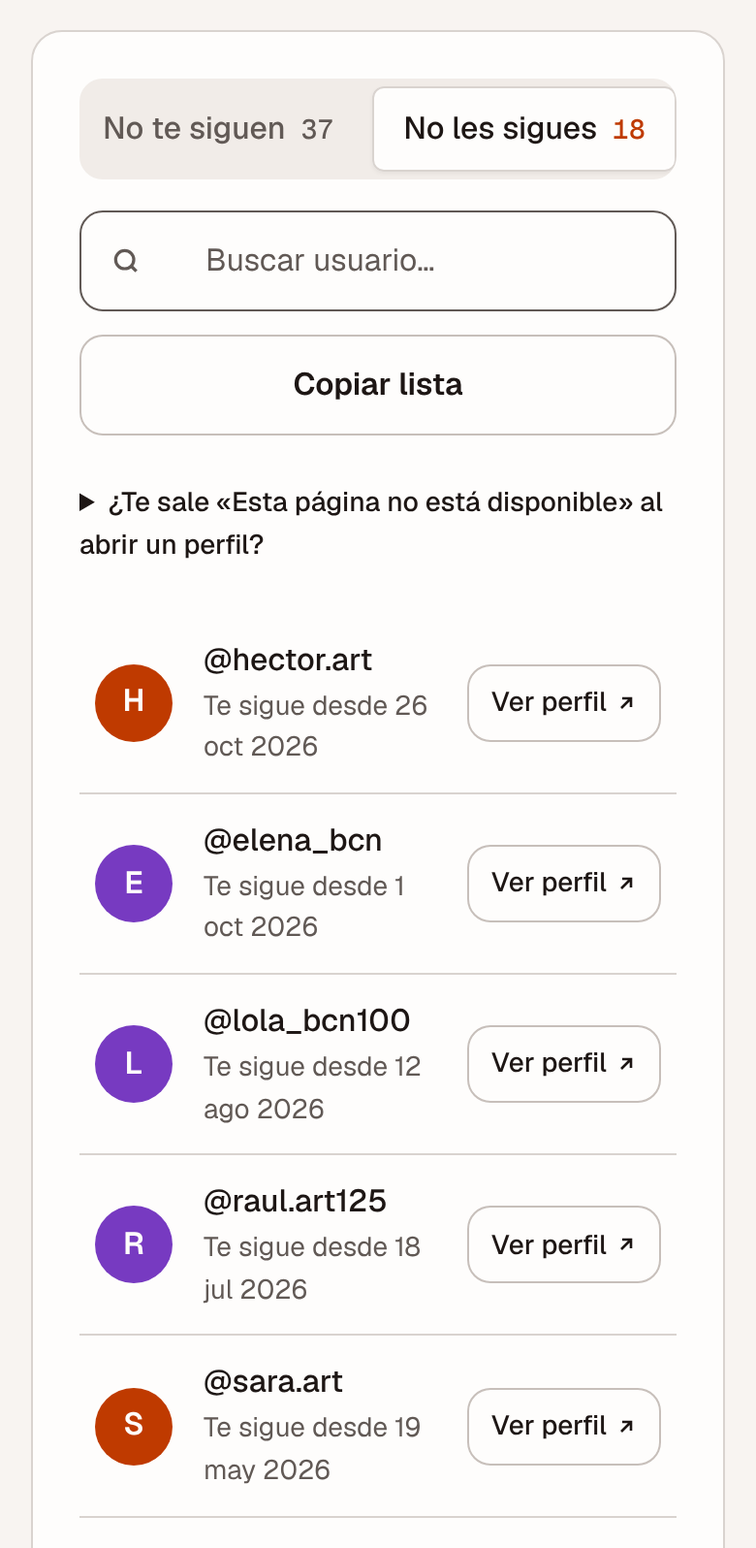
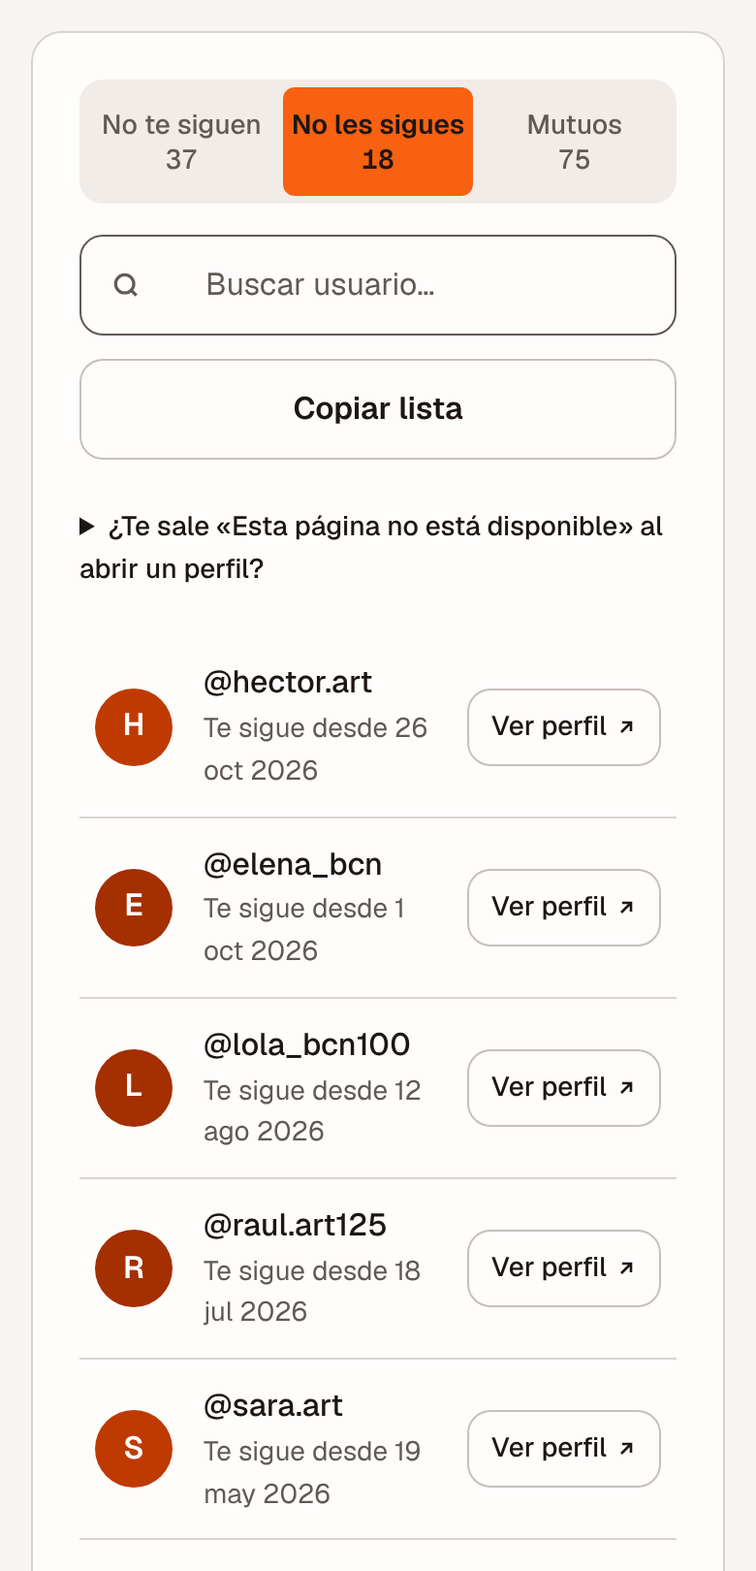
feat(ui): todo en naranja y más vida sin nuevos colores
- El morado pasa a naranja profundo y melocotón intenso
- Fantasma blanco flotando en la franja naranja del cierre
- Subrayado tipo rotulador en «de vuelta?» y pestañas más vivas
- Capturas de la app rehechas con la nueva paleta

diff --git a/src/styles/main.css b/src/styles/main.css
@@ -2,16 +2,17 @@
  * hero: Banner · nav: edge-aligned, the wordmark and one link · footer: colophon block · imagery: screenshots 8 (capture.mjs, desktop and phone), the product with sample data · signature: the results screen at full width under the hero, then the data map
  * axes: light/grotesk-sans/warm · posture: restrained · contrast: pass · fold: pass · v2.0.0 */
 /* Hallmark · pre-emit critique: P4 H4 E4 S4 R5 V4 · weakest: S, a centred head could front any tool; the real results screen sits right under it at full width, and the map keeps the privacy argument */
-/* Hallmark · swapped Stat-Led for a showcase, and the search-led bar for an edge-aligned one · the page has no figures to lead with and nothing to search; dropped the theme's stationery and felt textures and its no-fill rule for coral · the user asked for a minimal page in the ghost's orange, with purple as the second colour */
+/* Hallmark · swapped Stat-Led for a showcase, and the search-led bar for an edge-aligned one · the page has no figures to lead with and nothing to search; dropped the theme's stationery and felt textures and its no-fill rule for coral · the user asked for a minimal page in the ghost's orange, with purple as the second colour; later the owner folded the purple back into deeper and lighter oranges */
 /* Hallmark · waive 59 · the showcase sits 40px under the hero, the only gap under 120px · the results screen is the hero's picture and must start on the first screen */
 /* Hallmark · waive 39b · div.drop is a file drop target with role=button, sized to the instructions well beside it · a dropped .zip needs a large target, the real buttons stand 44 to 52px */
-/* Hallmark · redesign: restyle on #analizar (scope app) · the layout stays; the user asked for more life: a peach band, the platforms' own marks (Simple Icons, CC0, monochrome), the chosen network in solid orange, purple for the upload and the steps, tinted figure cards */
+/* Hallmark · redesign: restyle on #analizar (scope app) · the layout stays; the user asked for more life: a peach band, the platforms' own marks (Simple Icons, CC0, monochrome), the chosen network in solid orange, a deep orange for the upload and the steps, tinted figure cards */
 /* Hallmark · dismissed 77 · #analizar is the app screen of the same page, one working section by design; swept with --scope app */
 /* Hallmark · answered F4 · one primary recipe (.btn, orange); .btn--quiet is the outlined secondary on a near-white surface, and the stars are toggles, not actions */
 /* Hallmark · dismissed 49 · the two moment tabs are a title over a line by design; the score buttons wrap inside their own cell */
 /* Hallmark · reworded "resumen.png" to "resultados.png" and "movil.png" · the new shape shows the results screen under the hero and the phone view at the close */
 /* Hallmark · waive 38iii · the accent colours the whole second line of the h1, once, in the hero · the owner asked for more colour and the line stays the same size and weight */
-/* Hallmark · finish-review (#analizar restyle): subagent · 5 findings · 5 resolved (tabs fit the phone, beta badge in the corner, drop zone content at the top, purple upload badge, ring beside the figure on phones) */
+/* Hallmark · finish-review (#analizar restyle): subagent · 5 findings · 5 resolved (tabs fit the phone, beta badge in the corner, drop zone content at the top, deep orange upload badge, ring beside the figure on phones) */
+/* Hallmark · orange-only restyle (owner: fold the purple into orange, more life, no new colours) · finish-review: subagent · 5 findings · 5 fixed (ghost on phones, firmer highlighter, selected tab back to peach, ghost over the frame corner, privacy tag tinted) */
 @import url("./tokens.css");
 @import url("./base.css");
 
@@ -25,8 +26,9 @@
   --figure-size: clamp(2.25rem, 2vw + 1.25rem, 3.25rem);
   --shadow-screen: 0 24px 48px -28px oklch(20% 0.02 40 / 0.28);
   --shadow-orange: 0 12px 24px -16px oklch(45% 0.18 40 / 0.7);
-  --shadow-purple: 0 12px 24px -14px oklch(40% 0.2 300 / 0.6);
+  --shadow-deep: 0 12px 24px -14px oklch(38% 0.14 38 / 0.6);
   --shadow-deep-c: oklch(20% 0.05 40 / 0.55);
+  --ghost-shade: oklch(38% 0.14 38 / 0.35);
 }
 
 .hidden { display: none !important; }
@@ -76,8 +78,8 @@ a:hover { text-decoration-color: var(--color-accent-2); }
 .skip:focus-visible { top: var(--space-md); }
 
 /* ---------------------------------------------------------------- the ghost (the user's logo) */
-.ghost-body { fill: var(--color-accent); }
-.ghost-eye { fill: var(--color-ink); }
+.ghost-body { fill: var(--ghost-fill, var(--color-accent)); }
+.ghost-eye { fill: var(--ghost-eye, var(--color-ink)); }
 .ghost-glint { fill: var(--color-surface); }
 .logo { width: 32px; height: 32px; flex: none; }
 
@@ -103,8 +105,9 @@ a:hover { text-decoration-color: var(--color-accent-2); }
 .bar--home { background: color-mix(in oklab, var(--color-accent-soft) 94%, transparent); border-bottom-color: color-mix(in oklab, var(--color-accent) 25%, transparent); }
 .h1__line { display: block; }
 .h1__line--accent { color: var(--color-accent-2); }
+.h1__line--accent { width: fit-content; margin-inline: auto; background: linear-gradient(to bottom, transparent 58%, color-mix(in oklab, var(--color-accent) 30%, var(--color-accent-tint)) 58%, color-mix(in oklab, var(--color-accent) 30%, var(--color-accent-tint)) 90%, transparent 90%); border-radius: 6px; }
 .tag { display: inline-flex; align-items: center; min-height: 28px; padding: 0 var(--space-sm); margin-right: var(--space-xs); border-radius: 999px; font-weight: 600; font-size: var(--text-sm); }
-.tag--purple { background: var(--color-purple); color: var(--color-surface); }
+.tag--deep { background: var(--color-accent-tint); color: var(--color-accent-deep); }
 .hero__col { display: grid; justify-items: center; text-align: center; gap: var(--space-md); }
 .hero h1 { margin-top: var(--space-xs); }
 .hero .lead { max-width: 36ch; }
@@ -112,22 +115,22 @@ a:hover { text-decoration-color: var(--color-accent-2); }
 .hero__meta { font-size: var(--text-sm); color: var(--color-ink-2); }
 .counter { font-size: var(--text-sm); color: var(--color-muted); }
 .counter:empty { display: none; }
-.counter b { color: var(--color-purple); font-weight: 600; font-variant-numeric: tabular-nums; }
+.counter b { color: var(--color-accent-deep); font-weight: 600; font-variant-numeric: tabular-nums; }
 .ghost-big { width: var(--ghost-size); height: var(--ghost-size); animation: float 3.6s var(--ease-in-out) infinite; }
 @keyframes float { 50% { transform: translateY(-8px); } }
 
 /* ---------------------------------------------------------------- screens */
-.screen { margin: 0; border-radius: var(--radius-box); outline: 1px solid var(--color-rule-2); outline-offset: -1px; box-shadow: var(--shadow-screen); aspect-ratio: 1520 / 1454; }
+.screen { margin: 0; border-radius: var(--radius-box); outline: 1px solid var(--color-rule-2); outline-offset: -1px; box-shadow: var(--shadow-screen); aspect-ratio: 1520 / 1458; }
 .screen picture { display: contents; }
 .screen > img, .screen > picture > img { filter: none; object-fit: cover; object-position: top center; }
 .screen:not(.screen--phone) { aspect-ratio: auto; padding: var(--space-lg) var(--space-lg) 0; background: var(--color-paper-3); }
 .screen:not(.screen--phone) > img, .screen:not(.screen--phone) > picture > img { position: static; display: block; width: 100%; height: auto; border-radius: var(--radius-control) var(--radius-control) 0 0; box-shadow: 0 0 0 1px var(--color-rule-2); }
-.screen--phone { aspect-ratio: 780 / 1270; width: min(100%, 26rem); justify-self: start; border-radius: 28px; }
+.screen--phone { aspect-ratio: 780 / 1044; width: min(100%, 26rem); justify-self: start; border-radius: 28px; }
 
 /* ---------------------------------------------------------------- section rhythm */
 .showcase { padding-bottom: var(--section-gap); background: linear-gradient(to bottom, var(--color-accent-soft) 0 45%, var(--color-paper) 45%); }
-.map { padding-block: var(--section-gap-s); background: var(--color-purple-soft); }
-.map h2 { color: var(--color-purple); }
+.map { padding-block: var(--section-gap-s); background: var(--color-accent-tint); }
+.map h2 { color: var(--color-accent-deep); }
 .moments { padding-block: var(--section-gap-s); background: var(--color-paper); }
 .how { padding-block: var(--section-gap-l) var(--section-gap); }
 .close { padding-block: var(--section-gap-s); background: var(--color-accent); color: var(--color-accent-ink); }
@@ -154,8 +157,8 @@ a:hover { text-decoration-color: var(--color-accent-2); }
 .chips li, .outs li { padding: var(--space-2xs) var(--space-xs); border-radius: var(--radius-input); background: var(--color-paper-2); font-size: var(--text-sm); font-weight: 500; }
 .outs li { background: color-mix(in oklab, var(--color-surface) 70%, transparent); }
 .outs li:first-child { background: var(--color-ink); color: var(--color-surface); }
-.chips li { background: var(--color-purple-soft); color: var(--color-purple); }
-.node--off { display: flex; flex-wrap: wrap; align-items: baseline; gap: var(--space-xs) var(--space-lg); padding-block: var(--space-lg); background: transparent; border-style: dashed; border-color: color-mix(in oklab, var(--color-purple) 40%, transparent); }
+.chips li { background: var(--color-accent-tint); color: var(--color-accent-deep); }
+.node--off { display: flex; flex-wrap: wrap; align-items: baseline; gap: var(--space-xs) var(--space-lg); padding-block: var(--space-lg); background: transparent; border-style: dashed; border-color: color-mix(in oklab, var(--color-accent-deep) 40%, transparent); }
 .node--off h3 { color: var(--color-muted); text-decoration: line-through; text-decoration-color: var(--color-accent); text-decoration-thickness: 2px; }
 .node--off p { color: var(--color-muted); }
 .node--off::before { content: ""; position: absolute; bottom: 100%; left: calc((100% - 2 * var(--space-2xl)) * 0.8 + 2 * var(--space-2xl)); height: var(--space-2xl); border-left: var(--rule-hair) dashed var(--color-rule-2); }
@@ -166,13 +169,14 @@ a:hover { text-decoration-color: var(--color-accent-2); }
 .moment {
   display: grid; gap: var(--space-xs); padding: var(--space-lg); text-align: left;
   border: var(--rule-hair) solid var(--color-rule-2); border-radius: var(--radius-box); background: none; color: var(--color-ink-2); cursor: pointer;
-  transition: background-color var(--dur-short) var(--ease-out), color var(--dur-short) var(--ease-out);
+  transition: background-color var(--dur-short) var(--ease-out), color var(--dur-short) var(--ease-out), transform var(--dur-short) var(--ease-out);
 }
 .moment__title { font-weight: 600; font-size: var(--text-2xl); line-height: 1.1; letter-spacing: -0.025em; }
 .moment__line { font-size: var(--text-md); }
 .moment:hover { color: var(--color-ink); background: var(--color-paper); }
-.moment[aria-selected="true"] { background: var(--color-accent-soft); border-color: var(--color-accent); box-shadow: inset 4px 0 0 var(--color-accent); color: var(--color-ink); }
+.moment[aria-selected="true"] { background: var(--color-accent-soft); color: var(--color-accent-deep); border-color: var(--color-accent-tint); box-shadow: inset 3px 0 0 var(--color-accent-deep); border-color: var(--color-accent); box-shadow: inset 4px 0 0 var(--color-accent); color: var(--color-ink); }
 .moment[aria-selected="true"] .moment__line { color: var(--color-ink-2); }
+.moment:not([aria-selected="true"]):hover { transform: translateY(-2px); background: var(--color-accent-soft); border-color: var(--color-accent); }
 .moment:active { transform: translateY(1px); }
 .moment:focus-visible { outline: 2px solid var(--color-focus); outline-offset: 2px; }
 .moments__panels { display: grid; gap: var(--space-lg); }
@@ -182,12 +186,16 @@ a:hover { text-decoration-color: var(--color-accent-2); }
 .steps { list-style: none; margin: 0; padding: 0; border-top: var(--rule-hair) solid var(--color-rule-2); }
 .steps li { display: grid; grid-template-columns: minmax(0, 1fr) minmax(0, 4fr) minmax(0, 5fr); align-items: center; gap: var(--space-lg); padding-block: var(--space-xl); border-bottom: var(--rule-hair) solid var(--color-rule-2); }
 .steps__n { display: grid; place-items: center; width: 64px; height: 64px; border-radius: 50%; background: var(--color-accent); color: var(--color-accent-ink); font-family: var(--font-display); font-weight: 600; font-size: var(--text-xl); }
-.steps li:nth-child(2) .steps__n { background: var(--color-purple); color: var(--color-surface); }
+.steps li:nth-child(2) .steps__n { background: var(--color-accent-deep); color: var(--color-surface); }
 .steps p { color: var(--color-ink-2); }
 
 /* ---------------------------------------------------------------- close */
-.close__grid { display: grid; grid-template-columns: minmax(0, 6fr) minmax(0, 6fr); gap: var(--space-2xl); align-items: center; }
+.close__grid { position: relative; display: grid; grid-template-columns: minmax(0, 6fr) minmax(0, 6fr); gap: var(--space-2xl); align-items: center; }
 .close__text { display: grid; gap: var(--space-xl); justify-items: start; }
+
+/* the ghost's one character moment: white on the orange band */
+.close__ghost { position: absolute; z-index: 3; left: calc(50% + var(--space-2xl) - var(--space-3xl)); top: calc(-1 * var(--space-3xl) - var(--space-lg)); --ghost-fill: var(--color-surface); --ghost-eye: var(--color-ink); pointer-events: none; }
+.close__ghost svg { width: clamp(5rem, 9vw, 8rem); height: clamp(5rem, 9vw, 8rem); animation: float 4s var(--ease-in-out) infinite; filter: drop-shadow(0 16px 20px var(--ghost-shade)); }
 
 /* ---------------------------------------------------------------- footer: colophon */
 .colophon { padding-block: var(--space-2xl); background: var(--color-ink); color: var(--color-surface); }
@@ -215,7 +223,7 @@ a:hover { text-decoration-color: var(--color-accent-2); }
   font: 500 var(--text-md)/1 var(--font-body);
   transition: background-color var(--dur-short) var(--ease-out), border-color var(--dur-short) var(--ease-out);
 }
-.net small { margin-left: auto; padding: var(--space-3xs) var(--space-xs); border-radius: 999px; background: var(--color-purple-soft); font-size: var(--text-xs); font-weight: 600; color: var(--color-purple); }
+.net small { margin-left: auto; padding: var(--space-3xs) var(--space-xs); border-radius: 999px; background: var(--color-accent-tint); font-size: var(--text-xs); font-weight: 600; color: var(--color-accent-deep); }
 .net__icon { width: 24px; height: 24px; flex: none; fill: currentColor; }
 .net__name { min-width: 0; overflow: hidden; text-overflow: ellipsis; white-space: nowrap; font-weight: 600; }
 .net { position: relative; min-width: 0; }
@@ -231,18 +239,18 @@ a:hover { text-decoration-color: var(--color-accent-2); }
 .howto h3 { margin-bottom: var(--space-lg); }
 .howto ol { list-style: none; counter-reset: step; margin: 0; padding: 0; display: grid; gap: var(--space-md); }
 .howto li { counter-increment: step; position: relative; padding-left: var(--space-2xl); min-height: 32px; color: var(--color-ink-2); }
-.howto li::before { content: counter(step); position: absolute; left: 0; top: -2px; display: grid; place-items: center; width: 32px; height: 32px; border-radius: 50%; background: var(--color-purple-soft); color: var(--color-purple); font-weight: 600; font-size: var(--text-sm); }
+.howto li::before { content: counter(step); position: absolute; left: 0; top: -2px; display: grid; place-items: center; width: 32px; height: 32px; border-radius: 50%; background: var(--color-accent-tint); color: var(--color-accent-deep); font-weight: 600; font-size: var(--text-sm); }
 .howto b { color: var(--color-ink); font-weight: 600; }
 .howto .alt { display: block; margin-top: var(--space-2xs); font-size: var(--text-sm); color: var(--color-muted); }
 .howto code { font-family: var(--font-outlier); font-size: 0.875em; color: var(--color-ink); }
 .golink {
   display: inline-flex; align-items: center; gap: var(--space-xs); margin-bottom: var(--space-lg);
   min-height: 48px; padding: 0 var(--space-lg);
-  border-radius: var(--radius-control); background: var(--color-purple); color: var(--color-surface); box-shadow: none;
+  border-radius: var(--radius-control); background: var(--color-accent-deep); color: var(--color-surface); box-shadow: none;
   font-weight: 600; text-decoration: none;
   transition: background-color var(--dur-short) var(--ease-out);
 }
-.golink:hover { background: color-mix(in oklab, var(--color-purple) 85%, var(--color-ink)); }
+.golink:hover { background: color-mix(in oklab, var(--color-accent-deep) 85%, var(--color-ink)); }
 .golink:active { transform: translateY(1px); }
 .golink:focus-visible { outline: 2px solid var(--color-focus); outline-offset: 2px; }
 .golink svg { flex: none; color: currentColor; }
@@ -250,16 +258,16 @@ a:hover { text-decoration-color: var(--color-accent-2); }
 
 .drop {
   display: grid; justify-items: center; align-content: start; gap: var(--space-sm); min-height: 22rem; padding: var(--space-3xl) var(--space-xl) var(--space-xl); text-align: center;
-  border: 2px dashed color-mix(in oklab, var(--color-purple) 45%, transparent); border-radius: var(--radius-box); background: var(--color-purple-soft);
+  border: 2px dashed color-mix(in oklab, var(--color-accent-deep) 45%, transparent); border-radius: var(--radius-box); background: var(--color-accent-tint);
   cursor: pointer; transition: background-color var(--dur-short) var(--ease-out), border-color var(--dur-short) var(--ease-out);
 }
-.drop:hover, .drop.over { background: color-mix(in oklab, var(--color-purple-soft) 70%, var(--color-surface)); border-color: var(--color-purple); }
+.drop:hover, .drop.over { background: color-mix(in oklab, var(--color-accent-tint) 70%, var(--color-surface)); border-color: var(--color-accent-deep); }
 .drop:hover .drop__badge, .drop.over .drop__badge { transform: translateY(-3px); }
-.drop__badge { display: grid; place-items: center; width: 64px; height: 64px; margin-bottom: var(--space-xs); border-radius: 50%; background: var(--color-purple); color: var(--color-surface); box-shadow: var(--shadow-purple); transition: transform var(--dur-short) var(--ease-out); }
+.drop__badge { display: grid; place-items: center; width: 64px; height: 64px; margin-bottom: var(--space-xs); border-radius: 50%; background: var(--color-accent-deep); color: var(--color-surface); box-shadow: var(--shadow-deep); transition: transform var(--dur-short) var(--ease-out); }
 .drop:active { transform: translateY(1px); }
 .drop:focus-visible { outline: 2px solid var(--color-focus); outline-offset: 3px; }
 .drop__icon { color: currentColor; }
-.drop .link-btn { color: var(--color-purple); text-decoration-color: var(--color-purple); }
+.drop .link-btn { color: var(--color-accent-deep); text-decoration-color: var(--color-accent-deep); }
 .drop__title { font-size: var(--text-title); font-weight: 600; letter-spacing: -0.015em; line-height: 1.2; }
 .drop small { max-width: 28ch; color: var(--color-muted); font-size: var(--text-sm); }
 .drop .link-btn { margin-top: var(--space-xs); }
@@ -286,12 +294,12 @@ a:hover { text-decoration-color: var(--color-accent-2); }
 .score__item b { font-size: var(--figure-size); }
 .score__item--go b { color: var(--color-accent-2); }
 .score__item--go { background: var(--color-accent-soft); }
-.score__item--go:last-child { background: var(--color-purple-soft); }
-.score__item--go:last-child b { color: var(--color-purple); }
+.score__item--go:last-child { background: var(--color-accent-tint); }
+.score__item--go:last-child b { color: var(--color-accent-deep); }
 .score__item--go { cursor: pointer; border-radius: 0; transition: background-color var(--dur-short) var(--ease-out); }
 .score__item--go:last-child { border-radius: 0 var(--radius-box) var(--radius-box) 0; }
 .score__item--go:hover { background: color-mix(in oklab, var(--color-accent-soft) 70%, var(--color-accent)); }
-.score__item--go:last-child:hover { background: color-mix(in oklab, var(--color-purple-soft) 80%, var(--color-purple)); }
+.score__item--go:last-child:hover { background: color-mix(in oklab, var(--color-accent-tint) 80%, var(--color-accent-deep)); }
 .score__item--go:active { transform: translateY(1px); }
 .score__item--go:focus-visible { outline: 2px solid var(--color-focus); outline-offset: -3px; }
 
@@ -393,7 +401,7 @@ dialog.fb::backdrop { background: color-mix(in oklab, var(--color-ink) 35%, tran
 .flow > .node:nth-child(2) { --i: 1; } .flow > .node:nth-child(3) { --i: 2; } .node--off { --i: 3; }
 
 @media (prefers-reduced-motion: reduce) {
-  .ghost-big { animation: none; }
+  .ghost-big, .close__ghost svg { animation: none; }
   .js .flow > .node, .js .node--off { opacity: 1; transform: none; transition: none; }
   .btn, .golink, .moment, .net, .tab, .list li, .drop, .drop__badge, .stars button, a.open, .score__item--go { transition: none; }
   .drop:hover .drop__badge, .drop.over .drop__badge { transform: none; }
@@ -403,12 +411,7 @@ dialog.fb::backdrop { background: color-mix(in oklab, var(--color-ink) 35%, tran
 /* ---------------------------------------------------------------- under 60rem */
 @media (max-width: 60rem) {
   :root { --bar-h: 64px; }
-  .hero { padding-block: var(--space-xl); background: var(--color-accent-soft); }
-.bar--home { background: color-mix(in oklab, var(--color-accent-soft) 94%, transparent); border-bottom-color: color-mix(in oklab, var(--color-accent) 25%, transparent); }
-.h1__line { display: block; }
-.h1__line--accent { color: var(--color-accent-2); }
-.tag { display: inline-flex; align-items: center; min-height: 28px; padding: 0 var(--space-sm); margin-right: var(--space-xs); border-radius: 999px; font-weight: 600; font-size: var(--text-sm); }
-.tag--purple { background: var(--color-purple); color: var(--color-surface); }
+  .hero { padding-block: var(--space-xl); }
   .head-split, .moments__grid, .close__grid, .work, .score, .how__grid, .colophon__in { grid-template-columns: minmax(0, 1fr); }
   .steps li { grid-template-columns: minmax(0, 1fr) minmax(0, 4fr); }
   .steps li p { grid-column: 2; }
@@ -422,6 +425,7 @@ dialog.fb::backdrop { background: color-mix(in oklab, var(--color-ink) 35%, tran
   .score__item:nth-child(n + 3) { border-top: var(--rule-hair) solid var(--color-rule); }
   .score__item--go:last-child { border-radius: 0 0 var(--radius-box) 0; }
   .close .screen--phone { justify-self: start; }
+  .close__ghost { left: auto; right: var(--space-md); top: auto; bottom: calc(100% - var(--space-2xl)); }
 }
 @media (max-width: 40rem) {
   .tabs { overflow-x: visible; }

diff --git a/index.html b/index.html
@@ -58,7 +58,7 @@
         <div class="hero__actions">
           <button class="btn" id="start" type="button">Comenzar</button>
         </div>
-        <p class="hero__meta"><span class="tag tag--purple">100 % privado</span> Para Instagram, TikTok, X y Threads.</p>
+        <p class="hero__meta"><span class="tag tag--deep">100 % privado</span> Para Instagram, TikTok, X y Threads.</p>
         <p class="counter" id="counter" aria-live="polite"></p>
       </div>
     </section>
@@ -67,8 +67,8 @@
       <div class="container">
         <figure class="screen screen--wide" data-slot="demo-0" data-kind="product" data-alt="Resultados de ghost.radar con datos de ejemplo: marcador y lista">
           <picture>
-            <source media="(max-width: 40rem)" srcset="/screens/movil-resumen.png" width="780" height="1272">
-            <img src="/screens/resultados.png" width="2560" height="1399" alt="Resultados de un análisis: el porcentaje de cuentas que te siguen de vuelta, el marcador y la lista de quién no te sigue" fetchpriority="high">
+            <source media="(max-width: 40rem)" srcset="/screens/movil-resumen.png" width="780" height="1044">
+            <img src="/screens/resultados.png" width="2560" height="1404" alt="Resultados de un análisis: el porcentaje de cuentas que te siguen de vuelta, el marcador y la lista de quién no te sigue" fetchpriority="high">
           </picture>
         </figure>
       </div>
@@ -118,10 +118,10 @@
         </div>
         <div class="moments__panels">
           <figure class="screen" role="tabpanel" id="m-panel-1" aria-labelledby="m-tab-1" data-slot="demo-1" data-kind="product" data-alt="La lista «No te siguen» de ghost.radar con datos de ejemplo">
-            <picture><source media="(max-width: 40rem)" srcset="/screens/movil-no-te-siguen.png" width="780" height="1596"><img src="/screens/no-te-siguen.png" width="1520" height="1454" alt="Lista de cuentas que no te siguen de vuelta, cada una con su botón Ver perfil" loading="lazy"></picture>
+            <picture><source media="(max-width: 40rem)" srcset="/screens/movil-no-te-siguen.png" width="780" height="1620"><img src="/screens/no-te-siguen.png" width="1520" height="1458" alt="Lista de cuentas que no te siguen de vuelta, cada una con su botón Ver perfil" loading="lazy"></picture>
           </figure>
           <figure class="screen" role="tabpanel" id="m-panel-2" aria-labelledby="m-tab-2" data-slot="demo-2" data-kind="product" data-alt="La lista «No les sigues» de ghost.radar con datos de ejemplo">
-            <picture><source media="(max-width: 40rem)" srcset="/screens/movil-no-les-sigues.png" width="780" height="1596"><img src="/screens/no-les-sigues.png" width="1520" height="1454" alt="Lista de cuentas que te siguen y a las que tú no sigues" loading="lazy"></picture>
+            <picture><source media="(max-width: 40rem)" srcset="/screens/movil-no-les-sigues.png" width="780" height="1620"><img src="/screens/no-les-sigues.png" width="1520" height="1458" alt="Lista de cuentas que te siguen y a las que tú no sigues" loading="lazy"></picture>
           </figure>
         </div>
       </div>
@@ -146,8 +146,9 @@
           <h2 id="close-h">Tus fantasmas, desde tu .zip</h2>
           <button class="btn btn--ink" type="button" data-start>Comenzar</button>
         </div>
+        <div class="close__ghost" aria-hidden="true"><svg viewBox="0 0 64 64"><use href="#ghost"/></svg></div>
         <figure class="screen screen--phone" data-slot="demo-3" data-kind="product" data-alt="ghost.radar en el móvil con un análisis de TikTok de ejemplo">
-          <img src="/screens/movil-tiktok.png" width="780" height="1270" alt="ghost.radar en un móvil con un análisis de TikTok: el porcentaje y el marcador" loading="lazy">
+          <img src="/screens/movil-tiktok.png" width="780" height="1044" alt="ghost.radar en un móvil con un análisis de TikTok: el porcentaje y el marcador" loading="lazy">
         </figure>
       </div>
     </section>

diff --git a/src/styles/tokens.css b/src/styles/tokens.css
@@ -12,10 +12,10 @@
   --color-paper: oklch(97% 0.006 55); --color-paper-2: oklch(94.5% 0.007 55); --color-paper-3: oklch(91.5% 0.009 55);
   --color-ink: oklch(21% 0.012 38); --color-ink-2: oklch(29% 0.013 40); --color-muted: oklch(47% 0.013 45);
   --color-rule: oklch(87% 0.009 55); --color-rule-2: oklch(81% 0.011 55);
-  /* brand (the user's): the ghost's orange leads, a purple answers. Coral's own coral is replaced by request */
-  --color-accent: oklch(68% 0.2 42); --color-accent-ink: oklch(21% 0.012 38); --color-accent-2: oklch(54% 0.18 40); --color-focus: oklch(52% 0.2 300);
+  /* brand (the user's): one orange family, from the ghost. Coral's own coral is replaced by request */
+  --color-accent: oklch(68% 0.2 42); --color-accent-ink: oklch(21% 0.012 38); --color-accent-2: oklch(54% 0.18 40); --color-focus: oklch(50% 0.17 38);
   --color-accent-soft: oklch(95.5% 0.03 50);
-  --color-purple: oklch(50% 0.2 300); --color-purple-soft: oklch(95.5% 0.025 300);
+  --color-accent-deep: oklch(48% 0.16 38); --color-accent-tint: oklch(92% 0.05 48);
   --color-surface: oklch(99.4% 0.002 60);
   --color-cotton: oklch(98.8% 0.0045 80); --color-desk: oklch(94.3% 0.008 64); --color-print: oklch(23% 0.012 38);
   --color-board: oklch(22% 0.011 40); --color-board-type: oklch(96.5% 0.006 70); --color-paid: oklch(55.5% 0.15 33);

diff --git a/src/ui/results.ts b/src/ui/results.ts
@@ -8,8 +8,8 @@ import { byId, countUp, externalIcon, h } from './dom';
 type Tab = 'notFollowingBack' | 'fans' | 'mutual';
 
 const MAX_RENDERED = 1500;
-// Los dos colores de la marca (naranja y morado), siempre desde los tokens de CSS.
-const PALETTE = ['var(--color-accent-2)', 'var(--color-purple)'];
+// Dos tonos del naranja de la marca, siempre desde los tokens de CSS.
+const PALETTE = ['var(--color-accent-2)', 'var(--color-accent-deep)'];
 const ARC_LENGTH = 314.16;
 
 const EMPTY: Record<Tab, string> = {
